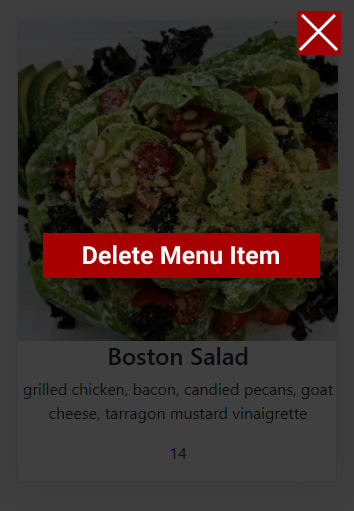
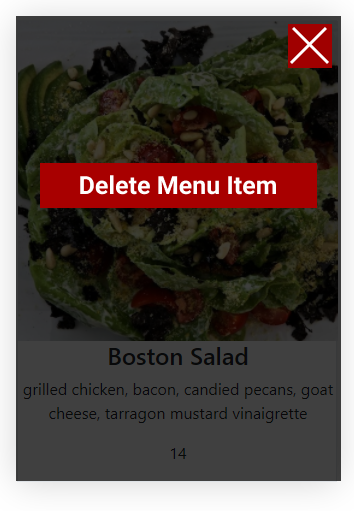
styling staff portal

diff --git a/public/css/staffportalmenu.css b/public/css/staffportalmenu.css
@@ -1,0 +1,17 @@
+.flexCol{
+    display: flex;
+    flex-direction: column;
+    align-items: center;
+}
+
+.flexRow{
+    display: flex;
+    flex-direction: row;
+    flex-wrap: wrap;
+    justify-content: center;
+}
+
+.mainWidth{
+    width: 60vw;
+    margin: auto;
+}
